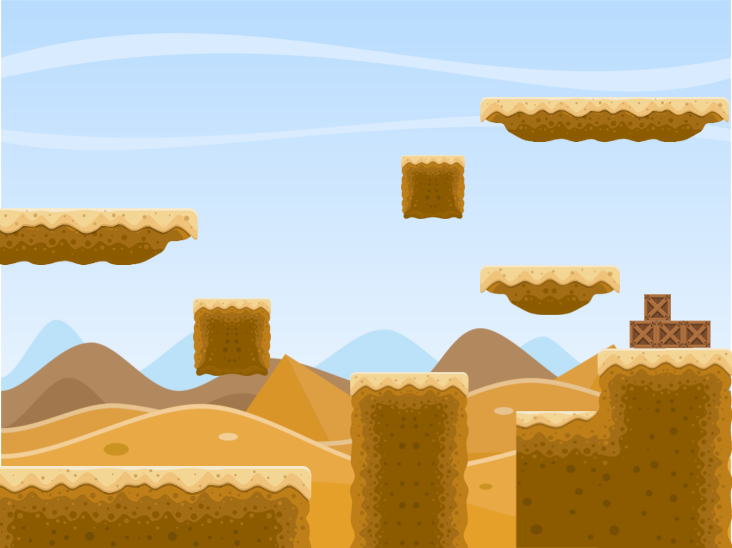
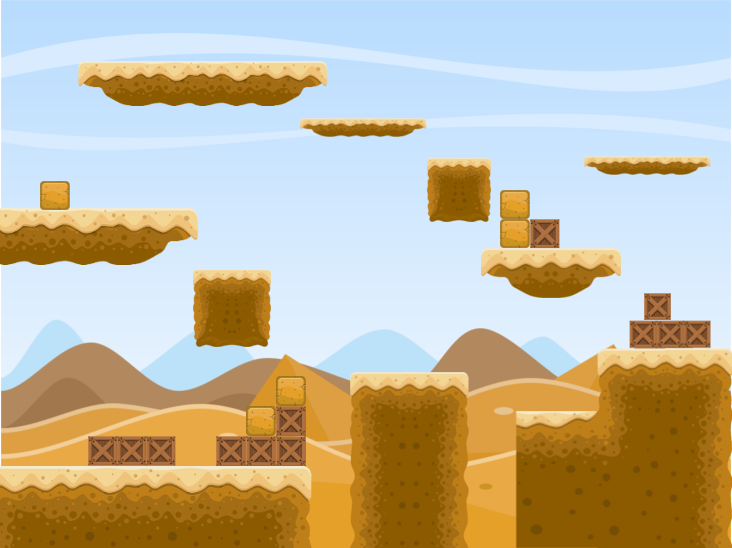
finalized map

diff --git a/proto/Obstacles.java b/proto/Obstacles.java
@@ -11,7 +11,8 @@ public class Obstacles extends JPanel{
 	Obstacles(int num){
 		this.block=num;
 		createObstacle(this.block);
-		this.setBackground(Color.BLACK);
+		// this.setBackground(Color.BLACK);
+		this.setOpaque(false);
 	}
 
 	public int getX(){
@@ -44,31 +45,60 @@ public class Obstacles extends JPanel{
 				render(351,373,119,190);
 				break;
 			case 3:
-				render(600,353,134,194);
+				render(597,347,134,194);
 				break;
 			case 4:
-				render(518,418,84,131);
+				render(514,411,84,131);
 				break;
 			case 5:
 				render(0,208,200,57);
 				break;
 			case 6:
-				render(480,96,250,45);
+				render(78,60,250,45);
 				break;
 			case 7:
-				render(400,155,64,64);
+				render(426,158,64,64);
 				break;
 			case 8:
-				render(193,298,78,78);
+				render(193,269,78,78);
 				break;
 			case 9:
-				render(480,266,140,50);
+				render(482,248,140,50);
 				break;
 			case 10:
 				render(630,320,82,28);
 				break;
 			case 11:
 				render(644,294,27,27);
+			case 12:
+				render(300,118,127,19);
+				break;
+			case 13:
+				render(584,156,127,19);
+				break;
+			case 14:
+				render(500,220,60,30);
+				break;
+			case 15:
+				render(500,190,30,30);
+				break;
+			case 16:
+				render(88,436,90,30);
+				break;
+			case 17:
+				render(40,180,30,30);
+				break;
+			case 18:
+				render(644,292,27,27);
+				break;
+			case 19:
+				render(216,438,90,30);
+				break;
+			case 20:
+				render(246,406,60,30);
+				break;
+			case 21:
+				render(276,376,30,30);
 				break;
 			default:
 				break;

diff --git a/proto/Game.java b/proto/Game.java
@@ -56,7 +56,7 @@ public class Game extends JPanel implements Runnable{
 		gamePanel.setOpaque(false); 
 		gamePanel.setPreferredSize(new Dimension(730,550));
 
-		for (int i=1;i<10 ;i++ ) {
+		for (int i=1;i<22 ;i++ ) {
 			Obstacles obs = new Obstacles(i);
 			obs.setBounds(this.getX(),this.getY(),this.getWidth(),this.getHeight());
 			gamePanel.add(obs);
